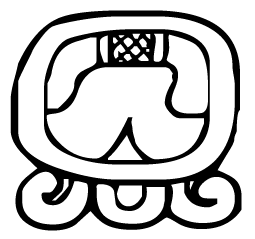
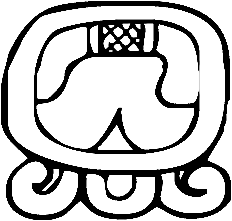
building stella from blocks

diff --git a/mayanCalendar/tiles.py b/mayanCalendar/tiles.py
@@ -1,7 +1,7 @@
 import math
 import os
 
-from PIL import Image, ImageDraw
+from PIL import Image, ImageDraw, ImageEnhance
 
 
 class block(object):
@@ -27,6 +27,9 @@ class block(object):
 
     def overlay(self, glyphname, cnt=None):
         overlay = Image.open(f"glyphs/{glyphname}.png").convert("RGBA")
+        overlay = self.make_transparant(overlay)
+        overlay = self.crop_to_image(overlay)
+
         overlay = overlay.resize((self.width - 7, self.height - 7))
         glyph_width, glyph_height = overlay.size
         glyph_long_side = max([glyph_height, glyph_width])
@@ -50,6 +53,23 @@ class block(object):
             self.draw_pips(cnt, glyph_long_side, stroke)
             self.draw_bars(cnt, glyph_long_side, stroke)
 
+    def crop_to_image(self, overlay):
+        imageBox = overlay.getbbox()
+        overlay = overlay.crop(imageBox)
+        return overlay
+
+    def make_transparant(self, overlay):
+        newimage = overlay.copy()
+        datas = overlay.getdata()
+        newData = []
+        for item in datas:
+            if item[0] == 255 and item[1] == 255 and item[2] == 255:
+                newData.append((255, 255, 255, 0))
+            else:
+                newData.append(item)
+        newimage.putdata(newData)
+        return newimage
+
     def draw_bars(self, cnt, glyph_height, stroke):
         pip_cnt, bar_cnt, _ = self.tally_layout(cnt)
         pip_size, gutter_width, column_width = self.tally_sizing(glyph_height, stroke=stroke)
@@ -63,13 +83,12 @@ class block(object):
             x = (column_width * (n + first_bar_column)) + gutter_width
             y = gutter_width
             draw.rounded_rectangle((x, y,
-                                    x + pip_size[0], glyph_height-(gutter_width*2)),
+                                    x + pip_size[0], glyph_height - (gutter_width * 2)),
                                    fill=None, outline="#000", width=2, radius=7)
 
     def draw_pips(self, cnt, glyph_height, stroke, color='#000'):
         # draw first column of circles representing remainder of cnt divided by 5
         pip_cnt, _, _ = self.tally_layout(cnt)
-        print(f"{cnt} {pip_cnt} {'-' * 20}")
         if 0 < pip_cnt < 5:
             pip_size, gutter, column_width = self.tally_sizing(glyph_height, stroke=stroke)
             draw = ImageDraw.Draw(self.img)
@@ -86,7 +105,7 @@ class block(object):
                 elif pip_cnt == 2:
                     offset += math.floor((glyph_height / 3) - (pip_height / 2))
                 elif pip_cnt == 3:
-                    offset += math.floor(pip_height/4)
+                    offset += math.floor(pip_height / 4)
 
             start = offset
             end = self.height - offset
@@ -128,3 +147,55 @@ def tile(name, cnt):
     uut = block(size=1, name=f'{cnt:02d}_{name}')
     uut.overlay(name, cnt=cnt)
     return (uut.img)
+
+
+def stella(longcount, thl):
+    rows = 5
+    block_gutter = 2
+    stella = block(size=2, name='stella')
+    stella.img = stella.img.resize((stella.width + (block_gutter * 4), stella.height * rows))
+    stella.width, stella.height = stella.img.size
+    enhancer = ImageEnhance.Brightness(stella.img)
+    stella.img = enhancer.enhance(.5)
+
+    col_first = block_gutter
+    col_second = math.floor(stella.width / 2) + block_gutter
+
+    blockheight = round(stella.height / rows) + 1
+    capstone = block(size=2, name=f"capstone")
+    capstone.overlay('long_count_capstone')
+    stella.img.paste(capstone.img, (col_first, 0), mask=capstone.img)
+
+    baktun = block(size=1, name=f"baktun_{longcount[0]:02}")
+    baktun.overlay('baktun', cnt=longcount[0])
+    stella.img.paste(baktun.img, (col_first, blockheight + block_gutter), mask=baktun.img)
+
+    katun = block(size=1, name=f"katun_{longcount[1]:02}")
+    katun.overlay('katun', cnt=longcount[1])
+    stella.img.paste(katun.img, (col_second, blockheight + block_gutter), mask=katun.img)
+
+    tun = block(size=1, name=f"tun_{longcount[2]:02}")
+    tun.overlay('tun', cnt=longcount[2])
+    stella.img.paste(tun.img, (col_first, 2 * blockheight + block_gutter), mask=tun.img)
+
+    uinal = block(size=1, name=f"uinal_{longcount[3]:02}")
+    uinal.overlay('uinal', cnt=longcount[3])
+    stella.img.paste(uinal.img, (col_second, 2 * blockheight + block_gutter), mask=uinal.img)
+
+    kin = block(size=1, name=f"kin_{longcount[4]:02}")
+    kin.overlay('kin', cnt=longcount[4])
+    stella.img.paste(kin.img, (col_first, 3 * blockheight + block_gutter), mask=kin.img)
+
+    tzolkn = block(size=1, name=f"tzolkn{thl[0]:02}")
+    tzolkn.overlay(f'tzolkin_D{thl[1]:02d}', cnt=thl[0])
+    stella.img.paste(tzolkn.img, (col_second, 3 * blockheight + block_gutter), mask=tzolkn.img)
+
+    haab = block(size=1, name=f"haab{thl[2]:02}")
+    haab.overlay(f'haab_{thl[3]:02d}', cnt=thl[2])
+    stella.img.paste(haab.img, (col_first, 4 * blockheight + block_gutter), mask=haab.img)
+
+    lord = block(size=1, name=f"haab{thl[2]:02}")
+    lord.overlay(f'G{thl[4]:1d}_lord_of_the_night', cnt=None)
+    stella.img.paste(lord.img, (col_second, 4 * blockheight + block_gutter), mask=lord.img)
+
+    del (stella)

diff --git a/tests.py b/tests.py
@@ -1,7 +1,7 @@
 import unittest
 
 from mayanCalendar import convert
-from mayanCalendar.tiles import block, tile
+from mayanCalendar.tiles import block, tile, stella
 
 
 class TestImages(unittest.TestCase):
@@ -12,7 +12,7 @@ class TestImages(unittest.TestCase):
 
     def test_block_generation(self):
         import os
-        for name in ['baktun', 'katun', 'kin', 'tun']:
+        for name in ['baktun', 'katun', 'tun', 'kin']:
             for x in range(0, 20):
                 filename = f"{name}_{x:02}"
                 uut = block(size=1, name=f"{name}_{x:02}")
@@ -66,6 +66,37 @@ class TestMayaDates(unittest.TestCase):
         # Lord of the Night: G9
         self.assertEqual([9, 16, 0, 0, 0], lc)
         self.assertEqual("2 Ajaw 13 Sek G9", d)
+
+    def test_Quirigua_stella_d_img(self):
+        lc, d = convert(805, 7, 18)
+        # 9.18.15.0.0
+        # Tzolk'in Date: 3 Ajaw
+        # Haab Date: 3 Yax
+        # Lord of the Night: G9
+        self.assertEqual([9, 18, 15, 0, 0], lc)
+        self.assertEqual("3 Ajaw 3 Yax G9", d)
+        stella(lc)
+
+    def test_long_count_modern_img(self):
+        lc, thl, d = convert(2022, 6, 28)
+        # 13.0.9.11.13
+        # Tzolk'in Date: 6 B'en
+        # Haab Date: 6 Sek
+        # Lord of the Night: G8
+        self.assertEqual([13, 0, 9, 11, 16], lc)
+        self.assertEqual([9, 16, 9, 4, 2], thl)
+        self.assertEqual("9 K’ib’ 9 Sek G2", d)
+        print(lc)
+        for n, name in enumerate(['baktun', 'katun']):
+            print(f"{n} {name}")
+            print(f"{lc[n-1]} {name}", end=' ')
+        stella(lc, thl)
+
+    def test_more(self):
+        lc, thl, d = convert(2022, 6, 25)
+        stella(lc, thl)
+
+
 
 
 if __name__ == '__main__':

diff --git a/mayanCalendar/calendar_conversion.py b/mayanCalendar/calendar_conversion.py
@@ -25,22 +25,22 @@ def to_long_count(jdn):
 
 
 def to_tzolkin_date(jdn):
-    tzolkin_months = ['Imix’', 'Ik’', 'Ak’bal', 'K’an', 'Chikchan', 'Kimi', 'Manik’', 'Lamat', 'Muluk', 'Ok', 'Chuwen',
-                      'Eb', 'B’en', 'Hix', 'Men', 'K’ib’', 'Kaban', 'Etz’nab’', 'Kawak', 'Ajaw']  # tzolk'in
+    tzolkin_names = ['Imix’', 'Ik’', 'Ak’bal', 'K’an', 'Chikchan', 'Kimi', 'Manik’', 'Lamat', 'Muluk', 'Ok', 'Chuwen',
+                    'Eb', 'B’en', 'Hix', 'Men', 'K’ib’', 'Kaban', 'Etz’nab’', 'Kawak', 'Ajaw']  # tzolk'in
     longCount = round(jdn - 584282.5);
-    day = (((longCount + 3) % 13) + 1)
-    month = ((longCount + 19) % 20)
-    return day, tzolkin_months[month]
+    cnt = (((longCount + 3) % 13) + 1)
+    day = ((longCount + 19) % 20)
+    return cnt, day, tzolkin_names[day]
 
 
 def to_haad_date(jdn):
-    haad_months = ['Pop', 'Wo’', 'Sip', 'Sotz’', 'Sek', 'Xul', 'Yaxk’in', 'Mol', 'Ch’en', 'Yax', 'Sak’', 'Keh', 'Mak',
+    haad_names = ['Pop', 'Wo’', 'Sip', 'Sotz’', 'Sek', 'Xul', 'Yaxk’in', 'Mol', 'Ch’en', 'Yax', 'Sak’', 'Keh', 'Mak',
                    'K’ank’in', 'Muwan', 'Pax', 'K’ayab', 'Kumk’u', 'Wayeb’']  # haab'
     longCount = round(jdn - 584282.5)
     dayOfHaab = (longCount - 17) % 365
-    day = round(dayOfHaab % 20);
+    day = round(dayOfHaab % 20)
     month = round(math.floor(dayOfHaab / 20))
-    return day, haad_months[month]
+    return day, month, haad_names[month]
 
 
 def to_lord_number(x, y):

diff --git a/mayanCalendar/__init__.py b/mayanCalendar/__init__.py
@@ -6,7 +6,7 @@ from mayanCalendar.utils import dt_to_jd
 def convert(y, m, d):
     jd = dt_to_jd(y, m, d)
     lc = to_long_count(jd)
-    td_num, td_name = to_tzolkin_date(jd)
-    hd_num, hd_name = to_haad_date(jd)
+    td_num, td_day, td_name = to_tzolkin_date(jd)
+    hd_num, hd_day, hd_name = to_haad_date(jd)
     lord_num = to_lord_number(lc[3], lc[4])
-    return lc, f"{td_num} {td_name} {hd_num} {hd_name} G{lord_num}"
+    return lc, [td_num, td_day+1, hd_num, hd_day, lord_num], f"{td_num} {td_name} {hd_num} {hd_name} G{lord_num}"
